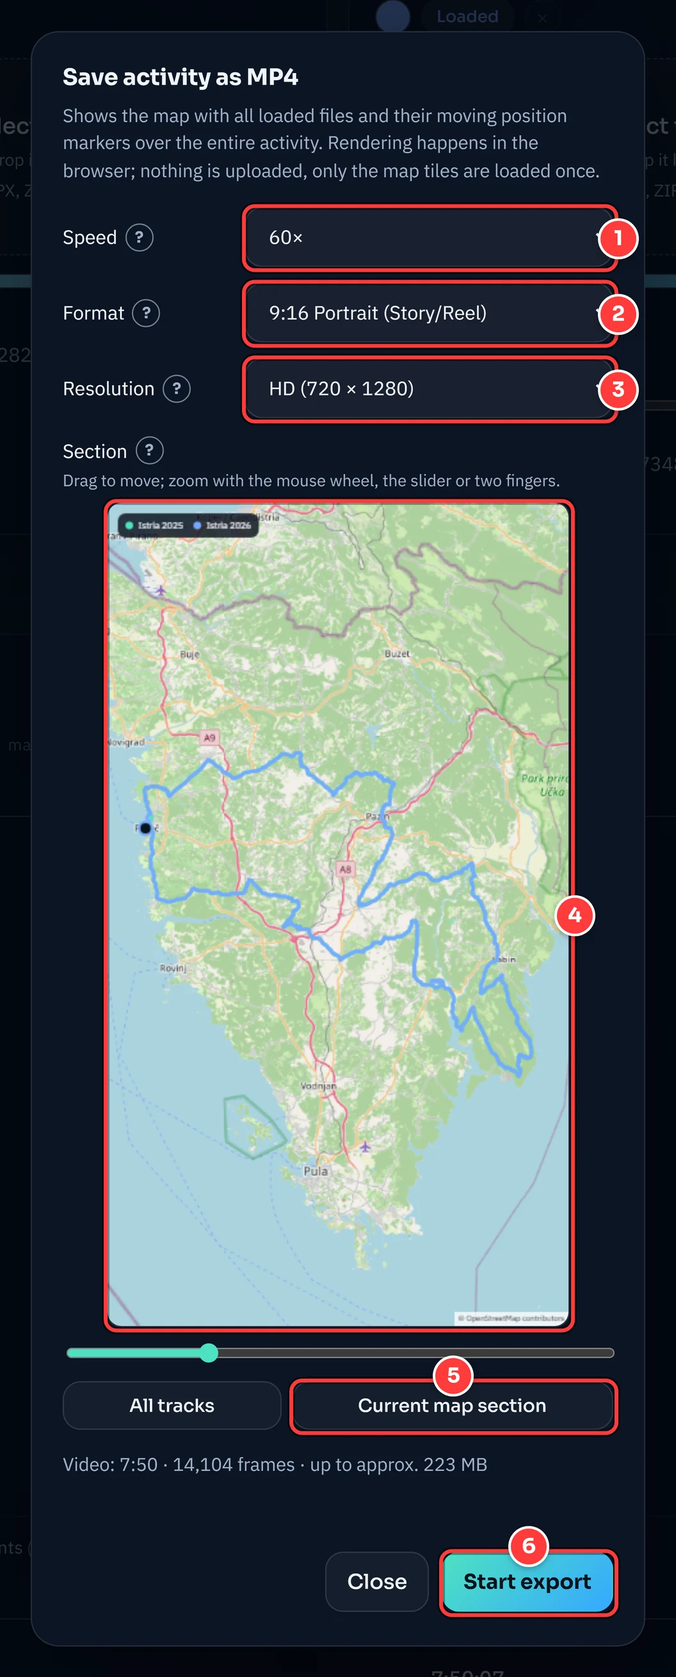
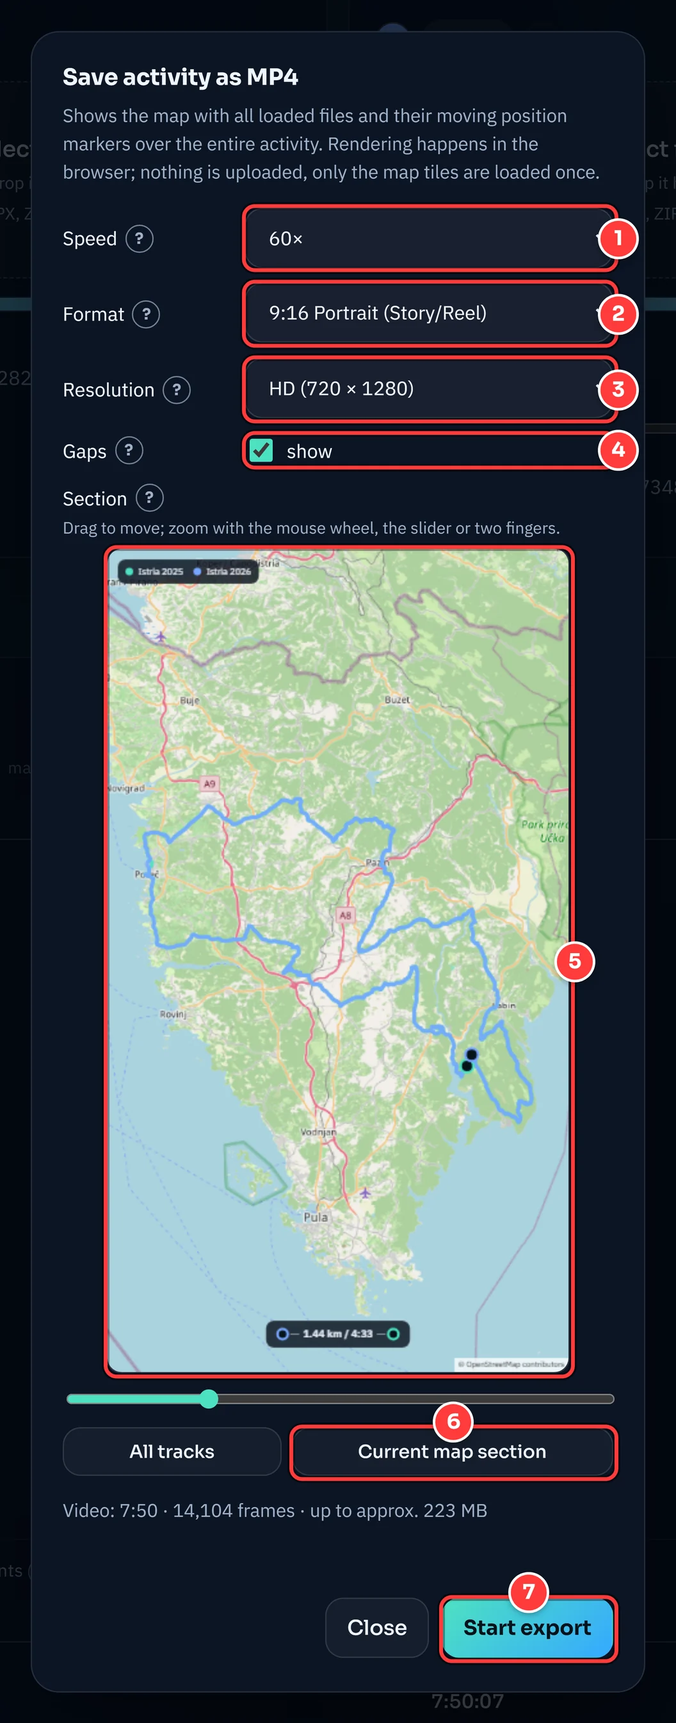
neue screenshots und ende-bugfix

diff --git a/help.html b/help.html
@@ -276,18 +276,22 @@
       </ol>
 
       <h3 id="abstand">Abstand zwischen den Markern</h3>
-      <p>Unter der Zeitleiste steht, wie weit die Marker gerade auseinander sind, zum Beispiel <code>○— 0,55 km / 0:43 —○— 3,09 km / 5:42 —○</code>. Die Marker sind nach ihrer Position auf der Strecke sortiert, der Vorderste steht links. Die Zeile erscheint, sobald mindestens zwei Aktivitäten mit GPS geladen sind.</p>
-      <ul>
-        <li><strong>Kilometer</strong> werden entlang der Strecke gemessen: Jede Position wird auf die Linie der <strong>Referenz</strong> gelegt (Auswahl links neben den Knöpfen, voreingestellt Datei 1). Die Distanzzähler der Geräte taugen dafür nicht, sie laufen auf 200 km um einige hundert Meter auseinander.</li>
-        <li><strong>Zeit</strong> ist der Rennabstand: wie lange es her ist, dass der Vordere an der Stelle war, an der der Hintere gerade ist. Haben alle das Ziel erreicht, steht dort der Abstand im Ziel.</li>
-        <li><strong>Startlinie.</strong> Gezählt wird ab einer gemeinsamen Startlinie, auf der Karte ein weißer, gestrichelter Ring. Sie wird automatisch an die erste Stelle kurz nach dem Start gesetzt, an der alle Spuren eng beieinander liegen. Mit „Startlinie wählen“ und einem Klick auf die Referenzspur legst du sie selbst fest, „Automatisch“ nimmt wieder die erkannte Stelle.</li>
-        <li><strong>An Startlinie ausrichten</strong> setzt die <a href="#offset">Start-Offsets</a> so, dass alle Aktivitäten im selben Moment über die Startlinie fahren. Das ersetzt das Ausprobieren von Hand.</li>
-        <li>Ein <strong>blasser Marker</strong> am Ende ist noch vor der Startlinie oder seit mehr als einer Minute abseits der Referenzstrecke, etwa bei einem Umweg oder wenn sich die Wege trennen.</li>
-      </ul>
+      <p>Unter der Zeitleiste steht, wie weit die Marker gerade auseinander sind. Der Block erscheint, sobald mindestens zwei Aktivitäten mit GPS geladen sind.</p>
+      <figure class="shot">
+        <img src="./docs/img/gap.webp" width="1800" height="233" loading="lazy" alt="Abstandsblock mit Abstandszeile, Auswahl der Referenz, den Knöpfen Startlinie wählen und An Startlinie ausrichten und dem Hinweis zur Startlinie">
+        <figcaption>Der Abstandsblock unter der Zeitleiste.</figcaption>
+      </figure>
+      <ol class="callouts">
+        <li><strong>Abstandszeile.</strong> Die Marker sind nach ihrer Position auf der Strecke sortiert, der Vorderste steht links. Dazwischen steht der Abstand in <strong>Kilometern</strong>, gemessen entlang der Strecke, und in <strong>Zeit</strong>. Die Zeit ist der Rennabstand: wie lange es her ist, dass der Vordere an der Stelle war, an der der Hintere gerade ist. Ein <strong>karierter</strong> Marker ist im Ziel; der Abstand zum Nächsten dahinter bleibt dann auf dem Stand, den er bei der Ankunft hatte. Ein <strong>blasser</strong> Marker am Ende ist noch vor der Startlinie oder seit mehr als einer Minute abseits der Referenzstrecke, etwa bei einem Umweg oder wenn sich die Wege trennen.</li>
+        <li><strong>Referenz.</strong> Auf der Linie dieser Spur wird gemessen, voreingestellt ist Datei 1. Jede Position wird auf diese Linie gelegt. Die Distanzzähler der Geräte taugen dafür nicht, sie laufen auf 200 km um einige hundert Meter auseinander.</li>
+        <li><strong>Startlinie wählen.</strong> Gezählt wird ab einer gemeinsamen Startlinie, auf der Karte ein weißer, gestrichelter Ring. Sie wird automatisch an die erste Stelle kurz nach dem Start gesetzt, an der alle Spuren eng beieinander liegen. Nach einem Klick auf den Knopf und einem Klick auf die Referenzspur liegt sie dort, Esc bricht ab. Danach erscheint „Automatisch“, das wieder die erkannte Stelle nimmt.</li>
+        <li><strong>An Startlinie ausrichten</strong> setzt die <a href="#offset">Start-Offsets</a> so, dass alle Aktivitäten im selben Moment über die Startlinie fahren. Das ersetzt das Ausprobieren von Hand. Das <span class="help-glyph-inline" aria-hidden="true">?</span> daneben erklärt die Startlinie.</li>
+        <li><strong>Hinweis.</strong> Hier steht, bei welchem Kilometer der Referenz die Startlinie liegt, oder was fehlt, wenn keine gefunden wurde.</li>
+      </ol>
 
       <h3 id="karte">Karte und Distanzfenster</h3>
       <figure class="shot">
-        <img src="./docs/img/map.webp" width="1800" height="952" loading="lazy" alt="Karte mit Strecke, Positionsmarkern, zwei Klickpunkten für das Distanzfenster, Legende und Ziehgriff">
+        <img src="./docs/img/map.webp" width="1800" height="952" loading="lazy" alt="Karte mit Strecke, Positionsmarkern, zwei Klickpunkten für das Distanzfenster, Legende, Ziehgriff und Startlinie">
         <figcaption>Die Karte mit Markern und einem aufgezogenen Distanzfenster.</figcaption>
       </figure>
       <ol class="callouts">
@@ -296,6 +300,7 @@
         <li><strong>Legende.</strong> Sie liegt in der Karte und bleibt bei jeder Kartengröße oben rechts. Genau diese Legende erscheint auch im Video.</li>
         <li><strong>Ziehgriff.</strong> Ziehe ihn nach unten oder oben, um die Höhe der Karte zu ändern (auch mit den Pfeiltasten).</li>
         <li><strong>Als MP4 speichern</strong>, siehe <a href="#video">unten</a>.</li>
+        <li><strong>Startlinie.</strong> Der weiße, gestrichelte Ring markiert, ab wo der <a href="#abstand">Abstand</a> gezählt wird.</li>
       </ol>
       <p>Das Distanzfenster vergleicht <strong>denselben Streckenabschnitt</strong> für jede Datei, auch wenn die Aktivitäten ihn zu ganz unterschiedlichen Zeiten gefahren sind. Das ist der große Vorteil gegenüber dem reinen Zeitfenster.</p>
       <figure class="shot">
@@ -324,11 +329,11 @@
       <p>Der Knopf „Als MP4 speichern“ über der Karte rendert die Karte mit allen Aktivitäten und ihren wandernden Markern über die gesamte Aktivität als Video. Das passiert in deinem Browser, es wird nichts hochgeladen.</p>
       <div class="shot-pair">
         <figure class="shot">
-          <img src="./docs/img/export-dialog.webp" width="1056" height="2660" loading="lazy" alt="Dialog Als MP4 speichern mit Tempo, Format, Auflösung, Ausschnitt-Vorschau und Export starten">
+          <img src="./docs/img/export-dialog.webp" width="1056" height="2732" loading="lazy" alt="Dialog Als MP4 speichern mit Tempo, Format, Auflösung, Abstände einblenden, Ausschnitt-Vorschau und Export starten">
           <figcaption>Der Export-Dialog im Hochformat.</figcaption>
         </figure>
         <figure class="shot shot-frame">
-          <img src="./docs/img/export-frame.webp" width="720" height="1280" loading="lazy" alt="Ein Bild aus einem exportierten 9:16-Video mit beiden Strecken und Markern">
+          <img src="./docs/img/export-frame.webp" width="720" height="1280" loading="lazy" alt="Ein Bild aus einem exportierten 9:16-Video mit beiden Strecken, Markern und Abstandszeile">
           <figcaption>Ein Bild aus dem fertigen 9:16-Video.</figcaption>
         </figure>
       </div>
@@ -336,12 +341,13 @@
         <li><strong>Tempo.</strong> 60× heißt: Eine Minute Aktivität dauert im Video eine Sekunde. Vorbelegt ist die kleinste Stufe, bei der das Video höchstens zehn Minuten lang wird.</li>
         <li><strong>Format.</strong> 16:9, 4:3 und 1:1 sowie die Hochformate 4:5 und 9:16 (Stories, Reels).</li>
         <li><strong>Auflösung.</strong> Gerechnet über die kurze Seite: Vorschau (360), HD (720) oder Full HD (1080). Die Pixelzahl steht in Klammern.</li>
+        <li><strong>Abstände einblenden.</strong> Zeichnet die <a href="#abstand">Abstandszeile</a> unten ins Video. Nur wählbar, wenn eine Startlinie gesetzt ist.</li>
         <li><strong>Ausschnitt.</strong> Die Vorschau zeigt, was im Video zu sehen ist. Ziehe zum Verschieben, zoome mit Mausrad, Regler oder zwei Fingern. „Alle Tracks“ passt alles ins Bild.</li>
         <li><strong>Aktueller Kartenausschnitt</strong> übernimmt den Bereich, den du gerade in der großen Karte eingestellt hast.</li>
         <li><strong>Export starten.</strong> Unter den Feldern siehst du Länge und höchstmögliche Größe der Datei. Mit „Abbrechen“ stoppst du jederzeit, dann wird nichts gespeichert.</li>
       </ol>
       <div class="note">
-        <p><strong>Gut zu wissen:</strong> Die Namen der Dateien in der Legende sind genau die Anzeigenamen, die du oben vergeben hast. Mit „Abstände einblenden“ steht die <a href="#abstand">Abstandszeile</a> auch unten im Video. Für den Export brauchst du einen aktuellen Chrome-, Edge- oder Firefox-Browser mit Video-Unterstützung (WebCodecs) und eine Datei mit GPS-Daten. Die Kartenkacheln werden dafür einmal aus dem Internet geladen. Firefox erzeugt bei gleicher Einstellung größere Dateien als Chrome und Edge.</p>
+        <p><strong>Gut zu wissen:</strong> Die Namen der Dateien in der Legende sind genau die Anzeigenamen, die du oben vergeben hast. Für den Export brauchst du einen aktuellen Chrome-, Edge- oder Firefox-Browser mit Video-Unterstützung (WebCodecs) und eine Datei mit GPS-Daten. Die Kartenkacheln werden dafür einmal aus dem Internet geladen. Firefox erzeugt bei gleicher Einstellung größere Dateien als Chrome und Edge.</p>
       </div>
 
       <h3 id="mobil">Am Handy</h3>

diff --git a/en/help.html b/en/help.html
@@ -276,18 +276,22 @@
       </ol>
 
       <h3 id="abstand">Gap between the markers</h3>
-      <p>Below the timeline you see how far apart the markers are right now, for example <code>○— 0.55 km / 0:43 —○— 3.09 km / 5:42 —○</code>. The markers are ordered by their position on the course, the leader on the left. The line appears as soon as at least two activities with GPS are loaded.</p>
-      <ul>
-        <li><strong>Kilometres</strong> are measured along the course: each position is placed onto the line of the <strong>reference</strong> (chosen left of the buttons, file 1 by default). The devices’ distance counters are not good enough for this, they drift apart by a few hundred metres over 200 km.</li>
-        <li><strong>Time</strong> is the race gap: how long ago the one in front was at the spot where the one behind is now. Once everyone has finished, it shows the gap at the finish.</li>
-        <li><strong>Start line.</strong> Counting starts at a common start line, shown on the map as a white dashed ring. It is set automatically at the first spot shortly after the start where all tracks run close together. With “Pick start line” and a click on the reference track you set it yourself; “Automatic” goes back to the detected spot.</li>
-        <li><strong>Align to start line</strong> sets the <a href="#offset">start offsets</a> so that all activities cross the start line at the same moment. This replaces adjusting them by hand.</li>
-        <li>A <strong>faded marker</strong> at the end is still before the start line or has been off the reference course for more than a minute, for example on a detour or where the routes split.</li>
-      </ul>
+      <p>Below the timeline you see how far apart the markers are right now. The block appears as soon as at least two activities with GPS are loaded.</p>
+      <figure class="shot">
+        <img src="../docs/img/en/gap.webp" width="1800" height="233" loading="lazy" alt="Gap block with the gap line, the reference selection, the Pick start line and Align to start line buttons, and the note about the start line">
+        <figcaption>The gap block below the timeline.</figcaption>
+      </figure>
+      <ol class="callouts">
+        <li><strong>Gap line.</strong> The markers are ordered by their position on the course, the leader on the left. Between them you see the gap in <strong>kilometres</strong>, measured along the course, and in <strong>time</strong>. The time is the race gap: how long ago the one in front was at the spot where the one behind is now. A <strong>checkered</strong> marker has finished; the gap to the next one behind then stays at its value on arrival. A <strong>faded</strong> marker at the end is still before the start line or has been off the reference course for more than a minute, for example on a detour or where the routes split.</li>
+        <li><strong>Reference.</strong> Distances are measured along the line of this track, file 1 by default. Each position is placed onto this line. The devices’ distance counters are not good enough for this, they drift apart by a few hundred metres over 200 km.</li>
+        <li><strong>Pick start line.</strong> Counting starts at a common start line, shown on the map as a white dashed ring. It is set automatically at the first spot shortly after the start where all tracks run close together. Click the button, then click on the reference track to put it there; Esc cancels. Afterwards “Automatic” appears, which goes back to the detected spot.</li>
+        <li><strong>Align to start line</strong> sets the <a href="#offset">start offsets</a> so that all activities cross the start line at the same moment. This replaces adjusting them by hand. The <span class="help-glyph-inline" aria-hidden="true">?</span> next to it explains the start line.</li>
+        <li><strong>Note.</strong> It tells you at which kilometre of the reference the start line lies, or what is missing if none was found.</li>
+      </ol>
 
       <h3 id="karte">Map and distance window</h3>
       <figure class="shot">
-        <img src="../docs/img/en/map.webp" width="1800" height="952" loading="lazy" alt="Map with route, position markers, two click points for the distance window, legend, and drag handle">
+        <img src="../docs/img/en/map.webp" width="1800" height="952" loading="lazy" alt="Map with route, position markers, two click points for the distance window, legend, drag handle, and start line">
         <figcaption>The map with markers and a distance window dragged out.</figcaption>
       </figure>
       <ol class="callouts">
@@ -296,6 +300,7 @@
         <li><strong>Legend.</strong> It sits inside the map and stays at the top right at any map size. This exact legend also appears in the video.</li>
         <li><strong>Drag handle.</strong> Drag it down or up to change the height of the map (also with the arrow keys).</li>
         <li><strong>Save as MP4</strong>, see <a href="#video">below</a>.</li>
+        <li><strong>Start line.</strong> The white dashed ring marks where the <a href="#abstand">gap</a> is counted from.</li>
       </ol>
       <p>The distance window compares <strong>the same stretch of route</strong> for each file, even if the activities rode it at very different times. This is the big advantage over the plain time window.</p>
       <figure class="shot">
@@ -324,11 +329,11 @@
       <p>The “Save as MP4” button above the map renders the map with all activities and their moving markers over the entire activity as a video. This happens in your browser, and nothing is uploaded.</p>
       <div class="shot-pair">
         <figure class="shot">
-          <img src="../docs/img/en/export-dialog.webp" width="1056" height="2616" loading="lazy" alt="Save as MP4 dialog with speed, format, resolution, section preview, and Start export">
+          <img src="../docs/img/en/export-dialog.webp" width="1056" height="2688" loading="lazy" alt="Save as MP4 dialog with speed, format, resolution, show gaps, section preview, and Start export">
           <figcaption>The export dialog in portrait format.</figcaption>
         </figure>
         <figure class="shot shot-frame">
-          <img src="../docs/img/en/export-frame.webp" width="720" height="1280" loading="lazy" alt="A frame from an exported 9:16 video with both routes and markers">
+          <img src="../docs/img/en/export-frame.webp" width="720" height="1280" loading="lazy" alt="A frame from an exported 9:16 video with both routes, markers, and the gap line">
           <figcaption>A frame from the finished 9:16 video.</figcaption>
         </figure>
       </div>
@@ -336,12 +341,13 @@
         <li><strong>Speed.</strong> 60× means: One minute of activity takes one second in the video. The default is the lowest setting at which the video is at most ten minutes long.</li>
         <li><strong>Format.</strong> 16:9, 4:3, and 1:1, as well as the portrait formats 4:5 and 9:16 (stories, reels).</li>
         <li><strong>Resolution.</strong> Measured on the short side: Preview (360), HD (720), or Full HD (1080). The pixel count is in parentheses.</li>
+        <li><strong>Show gaps.</strong> Draws the <a href="#abstand">gap line</a> at the bottom of the video. Only available when a start line is set.</li>
         <li><strong>Section.</strong> The preview shows what will be visible in the video. Drag to move, zoom with the mouse wheel, the slider, or two fingers. “All tracks” fits everything into the frame.</li>
         <li><strong>Current map section</strong> takes over the area you have currently set in the large map.</li>
         <li><strong>Start export.</strong> Below the fields you see the length and the maximum possible size of the file. With “Cancel”, you can stop at any time, and nothing is saved.</li>
       </ol>
       <div class="note">
-        <p><strong>Good to know:</strong> The file names in the legend are exactly the display names you assigned above. With “Gaps: show” the <a href="#abstand">gap line</a> also appears at the bottom of the video. For the export you need a current Chrome, Edge, or Firefox browser with video support (WebCodecs) and a file with GPS data. The map tiles are loaded from the internet once for this. At the same settings, Firefox produces larger files than Chrome and Edge.</p>
+        <p><strong>Good to know:</strong> The file names in the legend are exactly the display names you assigned above. For the export you need a current Chrome, Edge, or Firefox browser with video support (WebCodecs) and a file with GPS data. The map tiles are loaded from the internet once for this. At the same settings, Firefox produces larger files than Chrome and Edge.</p>
       </div>
 
       <h3 id="mobil">On your phone</h3>

diff --git a/tooltips.js b/tooltips.js
@@ -71,9 +71,18 @@ const HELP_DE = {
       'Zeigt, wie weit die Marker gerade auseinander sind, sortiert nach ihrer Position auf der Strecke: der Vorderste links. Zwischen zwei Markern steht der Abstand in Kilometern und in Zeit.',
       'Die Kilometer werden entlang der Referenzstrecke gemessen, nicht über die Luftlinie und nicht über die Distanzzähler der Geräte, die auf langen Strecken einige hundert Meter auseinanderlaufen. Jede Position wird dazu auf die Linie der Referenzspur gelegt.',
       'Die Zeit ist der Rennabstand: wie lange es her ist, dass der Vordere an der Stelle war, an der der Hintere gerade ist.',
-      'Gezählt wird ab der Startlinie (weißer Ring auf der Karte). Sie wird automatisch dort gesetzt, wo kurz nach dem Start alle Spuren eng beieinander liegen. Mit „Startlinie wählen“ und einem Klick auf die Referenzspur legst du sie selbst fest.',
-      '„An Startlinie ausrichten“ setzt die Start-Offsets so, dass alle Aktivitäten im selben Moment über die Startlinie fahren.',
+      'Unter „Referenz“ wählst du, auf welcher Spur gemessen wird. Gezählt wird ab der Startlinie, siehe das ? neben den Startlinien-Knöpfen.',
+      'Ein karierter Punkt ist im Ziel (am Ende der Referenzstrecke). Der Abstand zum Nächsten dahinter bleibt dann auf dem Stand, den er bei der Ankunft hatte.',
       'Ein blasser Punkt am Ende ist eine Aktivität, die noch vor der Startlinie oder länger als eine Minute abseits der Referenzstrecke ist.',
+    ],
+  },
+  startLine: {
+    title: 'Startlinie',
+    body: [
+      'Ab der Startlinie werden die Abstände gezählt. Auf der Karte ist sie ein weißer, gestrichelter Ring.',
+      'Sie wird automatisch an die erste Stelle kurz nach dem Start gesetzt, an der alle Spuren eng beieinander liegen. Unter der Abstandszeile steht, bei welchem Kilometer der Referenz sie liegt.',
+      '„Startlinie wählen“ und danach ein Klick auf die Referenzspur legt sie selbst fest, Esc bricht ab. „Automatisch“ nimmt wieder die erkannte Stelle.',
+      '„An Startlinie ausrichten“ setzt die Start-Offsets so, dass alle Aktivitäten im selben Moment über die Startlinie fahren. Das ersetzt das Ausprobieren von Hand.',
     ],
   },
   map: {
@@ -216,9 +225,18 @@ const HELP_EN = {
       'Shows how far apart the markers are right now, ordered by their position on the course: the leader on the left. Between two markers you see the gap in kilometres and in time.',
       'The kilometres are measured along the reference course, not as the crow flies and not with the devices’ distance counters, which drift apart by a few hundred metres on long rides. Each position is placed onto the line of the reference track.',
       'The time is the race gap: how long ago the one in front was at the spot where the one behind is now.',
-      'Counting starts at the start line (white ring on the map). It is set automatically where all tracks run close together shortly after the start. With “Pick start line” and a click on the reference track you set it yourself.',
-      '“Align to start line” sets the start offsets so that all activities cross the start line at the same moment.',
+      'Under “Reference” you choose which track is measured along. Counting starts at the start line, see the ? next to the start line buttons.',
+      'A checkered dot has finished (reached the end of the reference course). The gap to the next one behind then stays at its value on arrival.',
       'A faded dot at the end is an activity that is still before the start line or has been off the reference course for more than a minute.',
+    ],
+  },
+  startLine: {
+    title: 'Start line',
+    body: [
+      'The gaps are counted from the start line. On the map it is a white dashed ring.',
+      'It is set automatically at the first spot shortly after the start where all tracks run close together. The line below the gaps tells you at which kilometre of the reference it lies.',
+      '“Pick start line” followed by a click on the reference track sets it yourself; Esc cancels. “Automatic” goes back to the detected spot.',
+      '“Align to start line” sets the start offsets so that all activities cross the start line at the same moment. This replaces adjusting them by hand.',
     ],
   },
   map: {

diff --git a/app.js b/app.js
@@ -709,7 +709,8 @@ function alignOffsetsToStartLine() {
 // Marker nach Strecken-km sortiert, der Vorderste zuerst, dazwischen der Abstand in km
 // und Zeit. Die Zeit ist der Rennabstand: wie lange es her ist, dass der Vordere an der
 // Stelle war, an der der Hintere jetzt ist. Marker ohne Strecken-km (vor der Startlinie,
-// laenger abseits) kommen blass ans Ende. Dieselbe Liste zeichnet auch das Video.
+// laenger abseits) kommen blass ans Ende. Ist der Vordere eines Paares im Ziel, bleibt
+// der Abstand auf dem Stand, als er ankam. Dieselbe Liste zeichnet auch das Video.
 function buildGapItems(overallTime) {
   const { matches } = state.gap;
   if (matches.size < 2) {
@@ -717,31 +718,51 @@ function buildGapItems(overallTime) {
   }
 
   const origin = getTimelineOrigin();
+  const toOverall = (slot, ownTime) => ownTime - origin + slot.offsetSeconds;
   const placed = [];
   const missing = [];
   for (const slot of getGapSlots()) {
     const match = matches.get(slot.id);
-    const km = match ? courseKmAt(match, getSlotTime(slot, overallTime)) : null;
+    const ownTime = getSlotTime(slot, overallTime);
+    const km = match ? courseKmAt(match, ownTime) : null;
     if (km === null) {
       missing.push(slot);
     } else {
-      placed.push({ slot, match, km });
+      const finished = match.finishTime !== null && ownTime >= match.finishTime;
+      placed.push({ slot, match, km, finishedAt: finished ? toOverall(slot, match.finishTime) : Infinity });
     }
   }
-  placed.sort((a, b) => b.km - a.km);
+  // Wer im Ziel ist, steht vorne, in der Reihenfolge der Ankunft; dahinter nach km.
+  placed.sort((a, b) => a.finishedAt - b.finishedAt || b.km - a.km);
+
+  const gapBetween = (front, backKm, time) => {
+    const frontTime = timeWhenAtKm(front.match, backKm);
+    return formatGap(front.km - backKm, frontTime === null ? null : time - toOverall(front.slot, frontTime));
+  };
 
   const items = [];
   placed.forEach((entry, index) => {
     if (index > 0) {
       const front = placed[index - 1];
-      const frontTime = timeWhenAtKm(front.match, entry.km);
-      const seconds = frontTime === null ? null : overallTime - (frontTime - origin + front.slot.offsetSeconds);
-      items.push({ type: 'gap', text: formatGap(front.km - entry.km, seconds) });
+      let text = gapBetween(front, entry.km, overallTime);
+      if (Number.isFinite(front.finishedAt)) {
+        const backKm = courseKmAt(entry.match, getSlotTime(entry.slot, front.finishedAt));
+        if (backKm !== null) {
+          text = gapBetween(front, backKm, front.finishedAt);
+        }
+      }
+      items.push({ type: 'gap', text });
     }
-    items.push({ type: 'marker', color: entry.slot.color, name: getSlotDisplayName(entry.slot), missing: false });
+    items.push({
+      type: 'marker',
+      color: entry.slot.color,
+      name: getSlotDisplayName(entry.slot),
+      missing: false,
+      finished: Number.isFinite(entry.finishedAt),
+    });
   });
   for (const slot of missing) {
-    items.push({ type: 'marker', color: slot.color, name: getSlotDisplayName(slot), missing: true });
+    items.push({ type: 'marker', color: slot.color, name: getSlotDisplayName(slot), missing: true, finished: false });
   }
   return items;
 }
@@ -755,8 +776,9 @@ function renderGapBar() {
   const html = (buildGapItems(state.currentTime) ?? [])
     .map((item) => (item.type === 'gap'
       ? `<span class="gap-link"><span class="gap-label">${escapeHtml(item.text)}</span></span>`
-      : `<span class="gap-marker${item.missing ? ' missing' : ''}" style="--marker-color: ${item.color}" title="${
-        escapeHtml(item.missing ? `${item.name}: ${t('gap.missing')}` : item.name)}"></span>`))
+      : `<span class="gap-marker${item.missing ? ' missing' : ''}${item.finished ? ' finished' : ''}" style="--marker-color: ${
+        item.color}" title="${escapeHtml(item.missing ? `${item.name}: ${t('gap.missing')}`
+        : item.finished ? `${item.name}: ${t('gap.finished')}` : item.name)}"></span>`))
     .join('');
   // Laeuft jeden Frame; das DOM nur anfassen, wenn sich etwas geaendert hat.
   if (html !== state.gap.barHtml) {

diff --git a/course-gap.js b/course-gap.js
@@ -26,6 +26,8 @@ const MATCH_LOST_STRIDE = 10;
 const CROSS_MAX_DISTANCE_M = 50;
 // Laenger neben der Strecke: kein Abstand mehr, statt einen alten Wert stehen zu lassen.
 const OFF_ROUTE_HOLD_SECONDS = 60;
+// So nah am Ende der Referenzstrecke gilt eine Spur als im Ziel.
+const FINISH_TOLERANCE_KM = 0.3;
 
 const AUTO_START_MIN_KM = 0.2;
 const AUTO_START_STEP_KM = 0.025;
@@ -275,14 +277,23 @@ export function matchTrack(course, mapSamples, start) {
     offSince[k] = offStart;
   }
 
-  return { crossTime: t[0], t, km, kmMax, offSince, offShare: offCount / count };
+  const match = { crossTime: t[0], t, km, kmMax, offSince, offShare: offCount / count, finalKm: runningMax, finishTime: null };
+  // Im Ziel: ab dem ersten Erreichen des Streckenendes bleibt die Spur dort stehen, auch
+  // wenn die Aufzeichnung danach weiterlaeuft (Ausrollen, Heimweg).
+  if (runningMax >= course.km[course.km.length - 1] - FINISH_TOLERANCE_KM) {
+    match.finishTime = timeWhenAtKm(match, runningMax - 0.01);
+  }
+  return match;
 }
 
-/** Strecken-km einer Spur zu ihrer eigenen Zeit; null vor der Startlinie oder lange abseits. */
+/** Strecken-km einer Spur zu ihrer eigenen Zeit; null vor der Startlinie oder lange abseits, im Ziel der End-km. */
 export function courseKmAt(match, time) {
   const { t, km, offSince } = match;
   if (!Number.isFinite(time) || time < t[0]) {
     return null;
+  }
+  if (match.finishTime !== null && time >= match.finishTime) {
+    return match.finalKm;
   }
 
   const last = t.length - 1;

diff --git a/video-export.js b/video-export.js
@@ -592,6 +592,11 @@ function drawGapBar(ctx, items, width, height) {
         ctx.arc(cx, y, radius, 0, Math.PI * 2);
         ctx.fillStyle = '#06131b';
         ctx.fill();
+        if (item.finished) {
+          drawCheckers(ctx, cx, y, radius);
+        }
+        ctx.beginPath();
+        ctx.arc(cx, y, radius, 0, Math.PI * 2);
         ctx.lineWidth = ring;
         ctx.strokeStyle = item.color;
         ctx.stroke();
@@ -601,6 +606,24 @@ function drawGapBar(ctx, items, width, height) {
     }
   });
 
+  ctx.restore();
+}
+
+// Zielflaggen-Karo im Marker-Ring (Aktivitaet im Ziel), 4 x 4 Felder.
+function drawCheckers(ctx, cx, cy, radius) {
+  const cell = radius / 2;
+  ctx.save();
+  ctx.beginPath();
+  ctx.arc(cx, cy, radius, 0, Math.PI * 2);
+  ctx.clip();
+  ctx.fillStyle = '#eff5ff';
+  for (let row = 0; row < 4; row++) {
+    for (let column = 0; column < 4; column++) {
+      if ((row + column) % 2 === 0) {
+        ctx.fillRect(cx - radius + column * cell, cy - radius + row * cell, cell, cell);
+      }
+    }
+  }
   ctx.restore();
 }
 

diff --git a/i18n.js b/i18n.js
@@ -97,6 +97,7 @@ const DICT = {
     'gap.pickCancel': 'Abbrechen',
     'gap.pick': 'Startlinie wählen',
     'gap.missing': 'vor der Startlinie oder abseits der Referenzstrecke',
+    'gap.finished': 'im Ziel, der Abstand dahinter bleibt auf dem Stand bei der Ankunft',
     'gap.startLine': 'Startlinie',
 
     // Video-Dialog
@@ -211,6 +212,7 @@ const DICT = {
     'gap.pickCancel': 'Cancel',
     'gap.pick': 'Pick start line',
     'gap.missing': 'before the start line or off the reference course',
+    'gap.finished': 'finished, the gap behind stays at its value on arrival',
     'gap.startLine': 'Start line',
 
     'video.reason.webcodecs': 'Video export needs WebCodecs (a current Chrome or Edge).',

diff --git a/index.html b/index.html
@@ -238,6 +238,7 @@
             <button class="secondary-button skip-button" id="gapPickStart" type="button">Startlinie wählen</button>
             <button class="secondary-button skip-button hidden" id="gapAutoStart" type="button">Automatisch</button>
             <button class="secondary-button skip-button" id="gapAlign" type="button">An Startlinie ausrichten</button>
+            <button type="button" class="help" data-help="startLine">?</button>
           </div>
         </div>
         <div class="gap-bar" id="gapBar"></div>

diff --git a/en/index.html b/en/index.html
@@ -238,6 +238,7 @@
             <button class="secondary-button skip-button" id="gapPickStart" type="button">Pick start line</button>
             <button class="secondary-button skip-button hidden" id="gapAutoStart" type="button">Automatic</button>
             <button class="secondary-button skip-button" id="gapAlign" type="button">Align to start line</button>
+            <button type="button" class="help" data-help="startLine">?</button>
           </div>
         </div>
         <div class="gap-bar" id="gapBar"></div>

diff --git a/styles.css b/styles.css
@@ -611,6 +611,11 @@ select {
   opacity: 0.4;
 }
 
+/* Im Ziel: Zielflaggen-Karo im Ring. */
+.gap-marker.finished {
+  background: repeating-conic-gradient(#eff5ff 0 25%, #06131b 0 50%) 50% / 6px 6px;
+}
+
 .gap-marker:not(.missing) + .gap-marker.missing {
   margin-left: 18px;
 }
